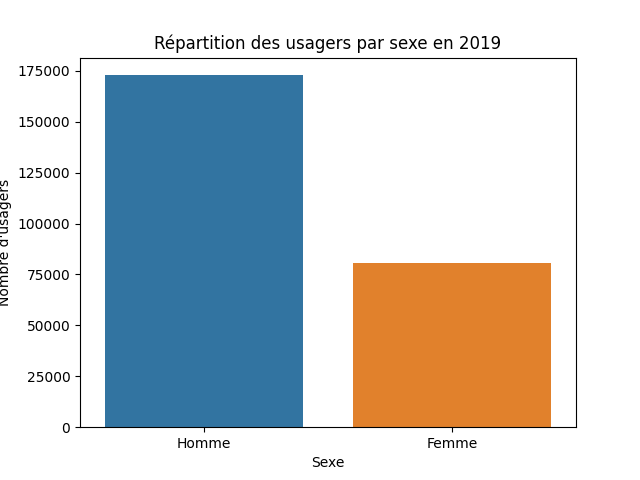
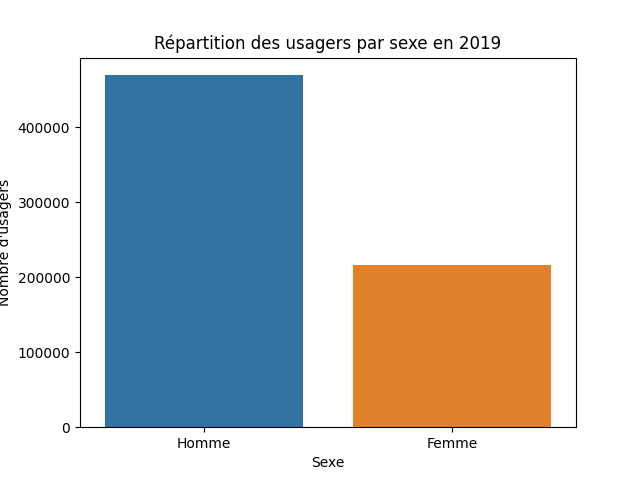
j'avais oublié d'ajouter script2.py la dernière fois --' / Ajout d'une section sommaire qui permet de sélectionner un graphe (auto scroll) / ajout graphe répartition des usagers par sexe pour les 3 années en même temps / modification de la fonction pour afficher les images du filtre car ca n'en affi

diff --git a/apiV1/views/home.html b/apiV1/views/home.html
@@ -32,29 +32,33 @@
     </nav>
     <div class="container">
         <h2>Home</h2>
-        <img src="/images/image_sexe2021.png" alt="image_sexe2021" style="width: 50%; height: auto;">
-        <img src="/images/image_sexe2020.png" alt="image_sexe2020" style="width: 50%; height: auto;">
-        <img src="/images/image_sexe2019.png" alt="image_sexe2019" style="width: 50%; height: auto;">
-        <img src="/images/image_3d_accidents_heures_mois.png" alt="image_3d_accidents_heures_mois" style="width: 50%; height: auto;">
+        <img src="/images/image_3d_accidents_heures_mois.png" id="image_3d_accidents_heures_mois" alt="image_3d_accidents_heures_mois" style="width: 50%; height: auto;">
+        <img src="/images/image_accidents_type_collisions.png" id="image_accidents_type_collisions" alt="image_accidents_type_collisions" style="width: 50%; height: auto;">
 
 
-
-        <h2>Filtrer par année</h2>
-        <form>
-            <input type="radio" id="all" name="year" value="all" checked>
-            <label for="all">Années 2019-2020-2021</label><br>
-            <input type="radio" id="2019" name="year" value="2019">
-            <label for="2019">2019</label><br>
-            <input type="radio" id="2020" name="year" value="2020">
-            <label for="2020">2020</label><br>
-            <input type="radio" id="2021" name="year" value="2021">
-            <label for="2021">2021</label><br>
-        </form>
+        <div class="card">
+            <h2>Filtrer par année</h2>
+            <form>
+                <input type="radio" id="all" name="year" value="all" checked>
+                <label for="all">Années 2019-2020-2021</label><br>
+                <input type="radio" id="2021" name="year" value="2021">
+                <label for="2021">2021</label><br>
+                <input type="radio" id="2020" name="year" value="2020">
+                <label for="2020">2020</label><br>
+                <input type="radio" id="2019" name="year" value="2019">
+                <label for="2019">2019</label><br>
+            </form>
+        </div>
         <div id="image-container">
-            <img id="all-image" src="/images/image_accidents_mois_all.png">
-            <img id="2019-image" src="/images/image_accidents_mois_2019.png" style="display: none;">
-            <img id="2020-image" src="/images/image_accidents_mois_2020.png" style="display: none;">
-            <img id="2021-image" src="/images/image_accidents_mois_2021.png" style="display: none;">
+            <img id="image_sexe_all" src="/images/image_sexe_all.png">
+            <img id="image_sexe2021" src="/images/image_sexe2021.png" style="display: none;">
+            <img id="image_sexe2020" src="/images/image_sexe2020.png" style="display: none;">
+            <img id="image_sexe2019" src="/images/image_sexe2019.png"style="display: none;">
+
+            <img id="image_accidents_mois_all" src="/images/image_accidents_mois_all.png">
+            <img id="image_accidents_mois_2019" src="/images/image_accidents_mois_2019.png" style="display: none;">
+            <img id="image_accidents_mois_2020" src="/images/image_accidents_mois_2020.png" style="display: none;">
+            <img id="image_accidents_mois_2021" src="/images/image_accidents_mois_2021.png" style="display: none;">
         </div>
         <script>
             const yearRadios = document.getElementsByName('year');
@@ -62,29 +66,29 @@
 
             yearRadios.forEach(radio => {
                 radio.addEventListener('change', () => {
-                    // Affiche l'image sélectionné et cache les autres
+                    // Affiche les images sélectionnées et cache les autres
                     switch (radio.value) {
-                        case '2019':
-                            showImage('2019-image');
+                        case '2021':
+                            showImage('image_sexe2021', 'image_accidents_mois_2021');
                             break;
                         case '2020':
-                            showImage('2020-image');
+                            showImage('image_sexe2020', 'image_accidents_mois_2020');
                             break;
-                        case '2021':
-                            showImage('2021-image');
+                        case '2019':
+                            showImage('image_sexe2019', 'image_accidents_mois_2019');
                             break;
                         default:
-                            showImage('all-image');
+                            showImage('image_sexe_all', 'image_accidents_mois_all');
                             break;
                     }
                 });
             });
 
-            // Affiche l'image ayant l'id spécifié et cache les autres
-            function showImage(imageId) {
+            // Affiche les images ayant leur id spécifié et cache les autres
+            function showImage(...imageIds) {
                 const images = imageContainer.getElementsByTagName('img');
                 for (let i = 0; i < images.length; i++) {
-                    if (images[i].id === imageId) {
+                    if (imageIds.includes(images[i].id)) {
                         images[i].style.display = 'block';
                     } else {
                         images[i].style.display = 'none';
@@ -92,6 +96,27 @@
                 }
             }
         </script>
+
+        <div class="card2">
+            <h2>Sommaire des graphes</h2>
+            <form>
+                Répartition des usagers par sexe par année(s) qui ont eu un accident : <br>
+                <a href="#image_sexe_all">image_sexe_all</a>
+                <a href="#image_sexe2021">image_sexe2021</a>
+                <a href="#image_sexe2020">image_sexe2020</a>
+                <a href="#image_sexe2019">image_sexe2019</a>
+                <br><br> Histogramme 3D du nombre d'accidents par heures par mois : <br>
+                <a href="#image_3d_accidents_heures_mois">image_3d_accidents_heures_mois</a>
+                <br><br> Type de collisions : <br>
+                <a href="#image_accidents_type_collisions">image_accidents_type_collisions</a>
+                <br><br> Nombre d'accidents par mois par année(s) : <br>
+                <a href="#image_accidents_mois_all">image_accidents_mois_all</a> /
+                <a href="#image_accidents_mois_2021">image_accidents_mois_2021</a> /
+                <a href="#image_accidents_mois_2020">image_accidents_mois_2020</a> /
+                <a href="#image_accidents_mois_2019">image_accidents_mois_2019</a>
+            </form>
+        </div>
+
     </div>
 </body>
 </html>
@@ -106,5 +131,31 @@
     .container {
         color: white;
         margin-top: 3%;
+    }
+
+    .card {
+        position: fixed;
+        top: 15%;
+        left: 60%;
+        right: 10%;
+        padding: 10px;
+
+        box-shadow: 0 4px 8px 0 rgba(0,0,0,0.2);
+        transition: 0.3s;
+        border-radius: 10px; /* 5px rounded corners */
+        background-color: #283747;
+    }
+
+    .card2 {
+        position: fixed;
+        top: 45%;
+        left: 60%;
+        right: 10%;
+        padding: 10px;
+
+        box-shadow: 0 4px 8px 0 rgba(0,0,0,0.2);
+        transition: 0.3s;
+        border-radius: 10px; /* 5px rounded corners */
+        background-color: #283747;
     }
 </style>

diff --git a/apiV1/script2.py b/apiV1/script2.py
@@ -1,0 +1,91 @@
+import matplotlib.pyplot as plt
+import numpy as np
+import seaborn as sns
+import pandas as pd
+
+################################# Importation des fichiers CSV #################################
+
+file_names = ['./data/2021/usagers-2021.csv', './data/2021/vehicules-2021.csv', './data/2021/lieux-2021.csv', './data/2021/caracteristiques-2021.csv']
+donnees_2021 = pd.read_csv(file_names[0])
+
+for file in file_names[1:]:
+    temp_df = pd.read_csv(file)
+    donnees_2021 = pd.merge(donnees_2021, temp_df, on='id', how='inner')
+
+donnees_2021 = donnees_2021.sort_values(by='id').reset_index(drop=True)
+
+
+file_names = ['./data/2020/usagers-2020.csv', './data/2020/vehicules-2020.csv', './data/2020/lieux-2020.csv', './data/2020/caracteristiques-2020.csv']
+donnees_2020 = pd.read_csv(file_names[0])
+
+for file in file_names[1:]:
+    temp_df = pd.read_csv(file)
+    donnees_2020 = pd.merge(donnees_2020, temp_df, on='id', how='inner')
+
+donnees_2020 = donnees_2020.sort_values(by='id').reset_index(drop=True)
+
+file_names = ['./data/2019/usagers-2019.csv', './data/2019/vehicules-2019.csv', './data/2019/lieux-2019.csv', './data/2019/caracteristiques-2019.csv']
+donnees_2019 = pd.read_csv(file_names[0])
+
+for file in file_names[1:]:
+    temp_df = pd.read_csv(file)
+    donnees_2019 = pd.merge(donnees_2019, temp_df, on='id', how='inner')
+
+donnees_2019 = donnees_2019.sort_values(by='id').reset_index(drop=True)
+
+
+################################# Modifications des données #################################
+
+donnees_2021 = donnees_2021.loc[donnees_2021['sexe'] != -1]
+
+donnees_combined = pd.concat([donnees_2019, donnees_2020, donnees_2021], ignore_index=True)
+
+# rempalce les "," par des ".", les ":" par des "."  et convertit en float
+donnees_combined['lat'] = donnees_combined['lat'].str.replace(',', '.').astype(float)
+donnees_combined['long'] = donnees_combined['long'].str.replace(',', '.').astype(float)
+donnees_combined['hrmn'] = donnees_combined['hrmn'].str.replace(':', '.').astype(float)
+donnees_combined = donnees_combined.loc[donnees_combined['vma'] != -1]
+################################# Graphes #################################
+
+# Nombre d'accidents par mois de l'année
+
+# ===== Graphe nb accidents par mois 2019 =====
+sns.countplot(x='mois', data=donnees_2019)
+plt.title('Nombre d\'accidents par mois de 2019')
+plt.xlabel("Mois de l'accident")
+plt.ylabel("Nombre d'accidents")
+plt.xticks([0, 1, 2, 3, 4, 5, 6, 7, 8, 9, 10, 11], ['Janvier', 'Février', 'Mars', 'Avril', 'Mai',
+                                       'Juin', 'Juillet', 'Aout', 'Septembre', 'Octobre',
+                                       'Novembre', 'Décembre'], rotation=90)
+plt.savefig("./public/images/image_accidents_mois_2019.png")
+# plt.show()
+# ===== Graphe nb accidents par mois 2020 =====
+sns.countplot(x='mois', data=donnees_2020)
+plt.title('Nombre d\'accidents par mois de 2020')
+plt.xlabel("Mois de l'accident")
+plt.ylabel("Nombre d'accidents")
+plt.xticks([0, 1, 2, 3, 4, 5, 6, 7, 8, 9, 10, 11], ['Janvier', 'Février', 'Mars', 'Avril', 'Mai',
+                                       'Juin', 'Juillet', 'Aout', 'Septembre', 'Octobre',
+                                       'Novembre', 'Décembre'], rotation=90)
+plt.savefig("./public/images/image_accidents_mois_2020.png")
+# plt.show()
+# ===== Graphe nb accidents par mois 2021 =====
+sns.countplot(x='mois', data=donnees_2021)
+plt.title('Nombre d\'accidents par mois de 2021')
+plt.xlabel("Mois de l'accident")
+plt.ylabel("Nombre d'accidents")
+plt.xticks([0, 1, 2, 3, 4, 5, 6, 7, 8, 9, 10, 11], ['Janvier', 'Février', 'Mars', 'Avril', 'Mai',
+                                       'Juin', 'Juillet', 'Aout', 'Septembre', 'Octobre',
+                                       'Novembre', 'Décembre'], rotation=90)
+plt.savefig("./public/images/image_accidents_mois_2021.png")
+# plt.show()
+# ===== Graphe nb accidents par mois pour 2019-2020-2021 =====
+sns.countplot(x='mois', data=donnees_combined)
+plt.title('Nombre d\'accidents par mois de 2019-2020-2021')
+plt.xlabel("Mois de l'accident")
+plt.ylabel("Nombre d'accidents")
+plt.xticks([0, 1, 2, 3, 4, 5, 6, 7, 8, 9, 10, 11], ['Janvier', 'Février', 'Mars', 'Avril', 'Mai',
+                                       'Juin', 'Juillet', 'Aout', 'Septembre', 'Octobre',
+                                       'Novembre', 'Décembre'], rotation=90)
+plt.savefig("./public/images/image_accidents_mois_all.png")
+# plt.show()

diff --git a/apiV1/script.py b/apiV1/script.py
@@ -53,6 +53,14 @@ donnees_combined = donnees_combined.loc[donnees_combined['vma'] != -1]
 ################################# Graphes #################################
 
 # afficher un graphe de la répartition des usagers par sexe
+sns.countplot(x='sexe', data=donnees_combined)
+plt.title('Répartition des usagers par sexe en 2019-2020-2021')
+plt.xlabel('Sexe')
+plt.ylabel('Nombre d\'usagers')
+plt.xticks([0, 1], ['Homme', 'Femme'])
+plt.savefig("./public/images/image_sexe_all.png")
+# plt.show()
+
 sns.countplot(x='sexe', data=donnees_2021)
 plt.title('Répartition des usagers par sexe en 2021')
 plt.xlabel('Sexe')
@@ -94,7 +102,8 @@ plt.xticks([0, 1, 2, 3, 4, 5, 6, 7], ['Non renseigné', 'Deux véhicules - front
                                        'Deux véhicules – par le coté', 'Trois véhicules et plus – en chaîne',
                                        'Trois véhicules et plus - collisions multiples', 'Autre collision',
                                        'Sans collision'], rotation=90)
-
+plt.savefig("./public/images/image_accidents_type_collisions.png")
+# plt.show()
 
 
 # ===== Créer une carte centrée sur la France =====
